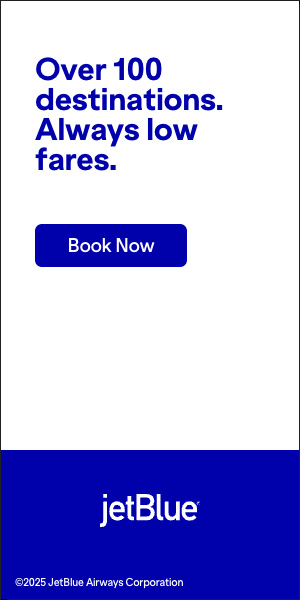
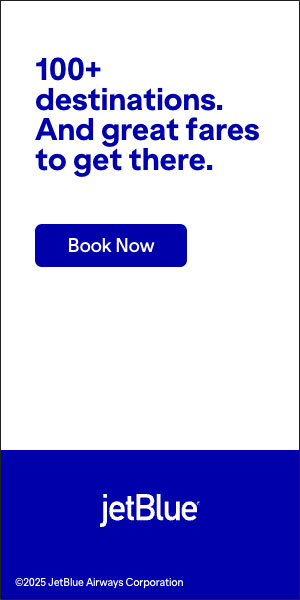
dfgd

diff --git a/HolidayWrapping/dynamic/richLoads/2025_JetBlue_Seasonal_Wrapping_300x600_RL2/mainRL2.js b/HolidayWrapping/dynamic/richLoads/2025_JetBlue_Seasonal_Wrapping_300x600_RL2/mainRL2.js
@@ -99,7 +99,7 @@ function setupContent() {
     // -------------------
 
     if (showDefault) {
-      h4[0].innerHTML = 'Over 100<br>destinations.<br>Always low<br>fares.'; // - Populates main headline
+      h4[0].innerHTML = '100+<br>destinations.<br>And great fares<br>to get there.'; // - Populates main headline
       h4[0].classList.add('defaultEndframe')
       // reposition CTA
       cta[0].classList.add('defaultCTA')

diff --git a/HolidayWrapping/dynamic/richLoads/2025_JetBlue_Seasonal_Wrapping_160x600_RL2/mainRL2.js b/HolidayWrapping/dynamic/richLoads/2025_JetBlue_Seasonal_Wrapping_160x600_RL2/mainRL2.js
@@ -98,7 +98,7 @@ function setupContent() {
     // -------------------
 
     if (showDefault) {
-      h4[0].innerHTML = 'Over 100<br>destinations.<br>Always low<br>fares.'; // - Populates main headline
+      h4[0].innerHTML = '100+<br>destinations.<br>And great<br>fares to get<br>there.'; // - Populates main headline
       h4[0].classList.add('defaultEndframe')
       // reposition CTA
       cta[0].style.top = "-39px"

diff --git a/HolidayWrapping/dynamic/richLoads/2025_JetBlue_Seasonal_Wrapping_300x250_RL2/mainRL2.js b/HolidayWrapping/dynamic/richLoads/2025_JetBlue_Seasonal_Wrapping_300x250_RL2/mainRL2.js
@@ -132,7 +132,7 @@ function setupContent() {
     // -------------------
 
     if (showDefault) {
-      h4[0].innerHTML = 'Over 100 destinations.<br>Always low fares.'; // - Populates main headline
+      h4[0].innerHTML = '100+ destinations. And<br>great fares to get there.'; // - Populates main headline
       h4[0].classList.add('defaultEndframe')
       // reposition CTA
       cta[0].classList.add('defaultCTA')

diff --git a/HolidayWrapping/dynamic/richLoads/2025_JetBlue_Seasonal_Wrapping_728x90_RL2/mainRL2.js b/HolidayWrapping/dynamic/richLoads/2025_JetBlue_Seasonal_Wrapping_728x90_RL2/mainRL2.js
@@ -95,7 +95,7 @@ function setupContent() {
     // -------------------
 
     if (showDefault) {
-      h4[0].innerHTML = 'Over 100 destinations.<br>Always low fares.'; // - Populates main headline
+      h4[0].innerHTML = '100+ destinations. And great<br>fares to get there.'; // - Populates main headline
       h4[0].classList.add('defaultEndframe')
       // reposition CTA
       cta[0].classList.add('defaultCTA')
